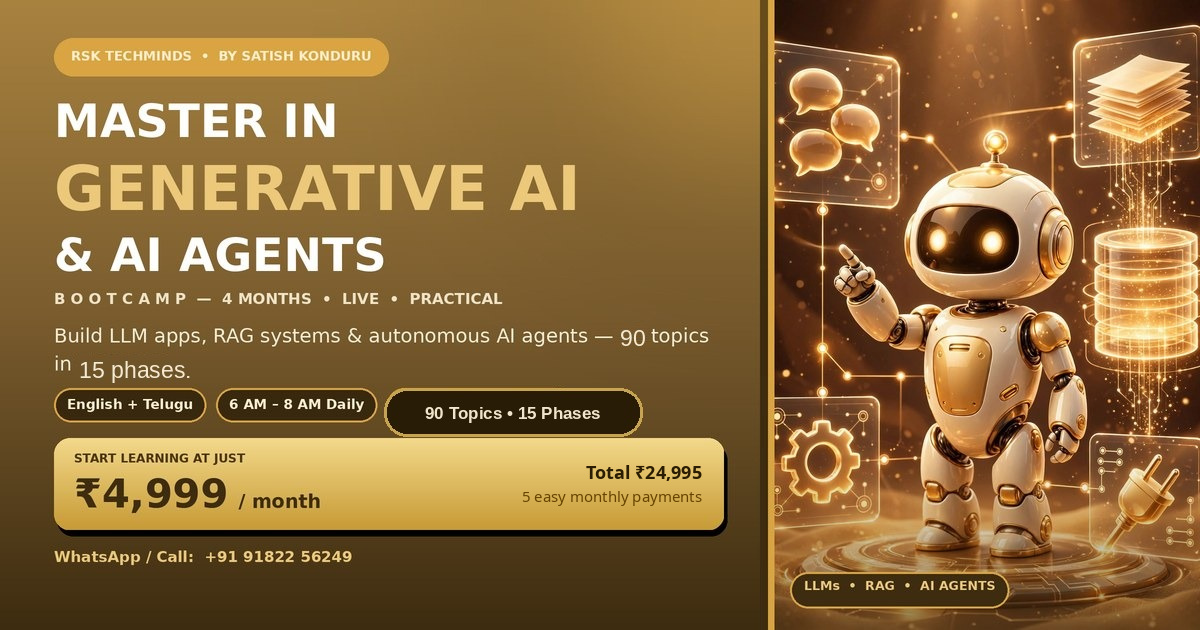
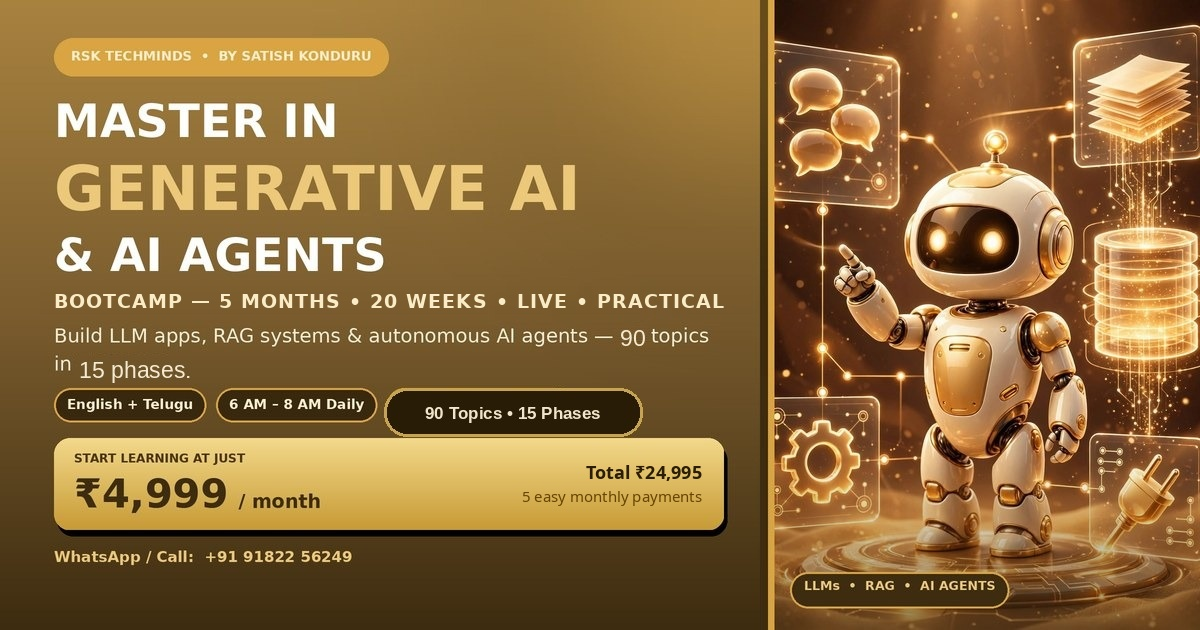
Preview updated to 5 Months

Changed region(s): [[0.0308, 0.4524, 0.6167, 0.5127]]

diff --git a/index.html b/index.html
@@ -29,7 +29,7 @@
 <meta property="og:locale" content="en_IN"/>
 <meta property="og:url" content="https://gen-ai-and-ai-agents-bootcamp.netlify.app/"/>
 <meta property="og:title" content="Master in Gen AI & AI Agents Bootcamp — Starts at just ₹4,999/month"/>
-<meta property="og:description" content="Don't just learn AI — build it. LLMs, RAG, AI Agents & Multi-Agent Systems with Satish Konduru (RSK TechMinds). 90 topics · 15 phases · 4 months · English + Telugu · Live 6–8 AM daily · Total ₹24,995 · EMI ₹4,999/month × 5 · Enquire on WhatsApp: +91 91822 56249"/>
+<meta property="og:description" content="Don't just learn AI — build it. LLMs, RAG, AI Agents & Multi-Agent Systems with Satish Konduru (RSK TechMinds). 90 topics · 15 phases · 5 months (20 weeks) · English + Telugu · Live 6–8 AM daily · Total ₹24,995 · EMI ₹4,999/month × 5 · Enquire on WhatsApp: +91 91822 56249"/>
 <meta property="og:image" content="https://gen-ai-and-ai-agents-bootcamp.netlify.app/assets/og-share.jpg"/>
 <meta property="og:image:secure_url" content="https://gen-ai-and-ai-agents-bootcamp.netlify.app/assets/og-share.jpg"/>
 <meta property="og:image:type" content="image/jpeg"/>
@@ -38,7 +38,7 @@
 <meta property="og:image:alt" content="Master in Generative AI and AI Agents Bootcamp by Satish Konduru, RSK TechMinds — golden AI agent robot, starts at ₹4,999 per month, 90 topics in 15 phases, including the full MCP curriculum, English + Telugu, 6 to 8 AM daily"/>
 <meta name="twitter:card" content="summary_large_image"/>
 <meta name="twitter:title" content="Master in Gen AI & AI Agents Bootcamp — Starts at just ₹4,999/month"/>
-<meta name="twitter:description" content="Build LLMs, RAG & AI Agents with Satish Konduru. 90 topics · 15 phases · 4 months · English + Telugu · Live 6–8 AM · Total ₹24,995 · EMI ₹4,999/month × 5"/>
+<meta name="twitter:description" content="Build LLMs, RAG & AI Agents with Satish Konduru. 90 topics · 15 phases · 5 months (20 weeks) · English + Telugu · Live 6–8 AM · Total ₹24,995 · EMI ₹4,999/month × 5"/>
 <meta name="twitter:image" content="https://gen-ai-and-ai-agents-bootcamp.netlify.app/assets/og-share.jpg"/>
 <meta name="twitter:image:alt" content="Master in Generative AI and AI Agents Bootcamp — starts at ₹4,999 per month, by Satish Konduru, RSK TechMinds"/>
 <link rel="preconnect" href="https://fonts.googleapis.com"><link rel="preconnect" href="https://fonts.gstatic.com" crossorigin>
